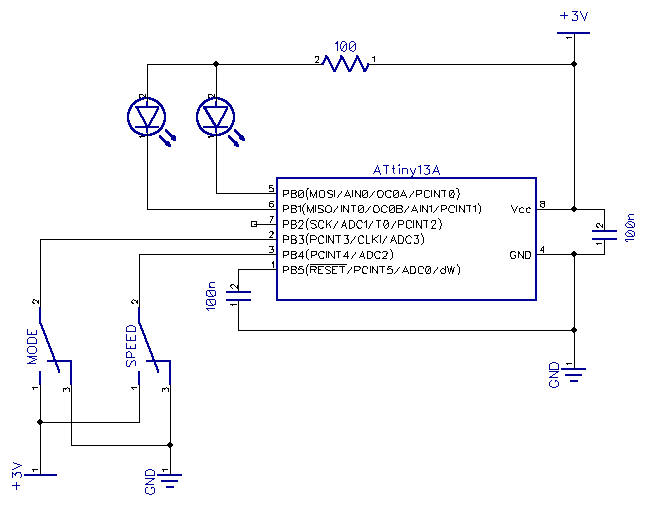
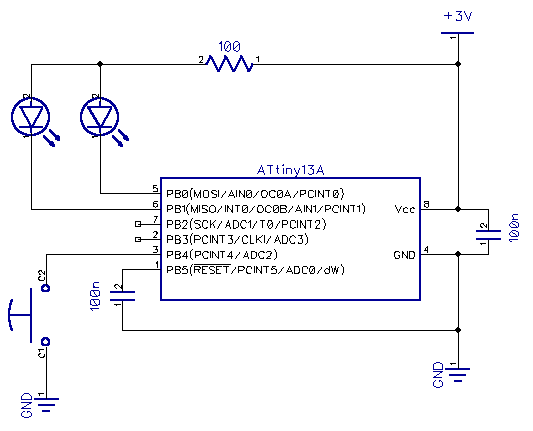
replaced static config on PB3/4 with momentary PB4 switch and config saved to eeprom

diff --git a/main.c b/main.c
@@ -27,6 +27,8 @@ static volatile uint8_t g_tcnt;
 #define CBI(port,val) asm volatile ("cbi %0,%1"::"I" (&(port)-32), "I"(val))
 #define SBI(port,val) asm volatile ("sbi %0,%1"::"I" (&(port)-32), "I"(val))
 
+#define PORTBMASK (M(PB_LED1)|M(PB_LED2))
+
 // PORTB:
 enum
 { PB_LED1 = 0, PB_LED2 = 1 };
@@ -45,6 +47,57 @@ static inline uint16_t rand()
   return g_lfsr;
 }
 
+
+static uint8_t eeget(uint16_t addr)
+{
+  EEARL = addr;
+  SBI(EECR, EERE);
+  return EEDR;
+}
+
+static void eeput(uint16_t addr, uint8_t data)
+{
+  uint8_t savesreg = SREG;
+
+  asm volatile ("cli");
+
+  EECR = 0;
+  EEARL = addr;
+  EEDR = data;
+
+  SBI(EECR, EEMPE);
+  SBI(EECR, EEPE);
+  while (EECR & (1 << EEPE));
+
+  SREG = savesreg;
+}
+
+enum
+{ CFG_MODE = 0x80, CFG_DMAX = 2 };
+static uint8_t g_cfg;
+static void cfg(uint8_t update)
+{
+  enum
+  { EE_CFG = 2 };
+  g_cfg = eeget(EE_CFG);
+  if (g_cfg == 0xff)
+    g_cfg = 0;
+
+  if ((g_cfg & 3) > CFG_DMAX)
+    g_cfg &= ~3;
+
+  if (update)
+  {
+    if ((++g_cfg & 3) > CFG_DMAX)
+    {
+      g_cfg ^= CFG_MODE;
+      g_cfg &= ~3;
+    }
+
+    eeput(EE_CFG, g_cfg);
+  }
+}
+
 static void candle(void)
 {
   // OCA&OCB PWM enabled; fast PWM mode 3
@@ -59,6 +112,57 @@ static void candle(void)
   {
     OCR0B = v;
   }
+
+  void sleep(uint8_t cnt)
+  {
+    g_tcnt = cnt;
+    while (g_tcnt)
+      asm volatile ("sleep");
+  }
+  void showcfg(void)
+  {
+    uint8_t cnt;
+
+    DDRB = 0;
+    out1(0xf0);
+    out2(0xf0);
+
+    for (cnt = 0; cnt < 4; cnt++)
+      sleep(255);
+
+    cnt = 2;
+    if (g_cfg & CFG_MODE)
+      cnt = 4;
+
+    while (cnt)
+    {
+      cnt--;
+
+      sleep(255);
+      sleep(255);
+
+      switch (g_cfg & 3)
+      {
+      case 0:
+	DDRB = M(PB_LED1);
+	break;
+      case 1:
+	DDRB = M(PB_LED2);
+	break;
+      case 2:
+	DDRB = M(PB_LED1) | M(PB_LED2);
+	break;
+      }
+
+      sleep(20);
+      DDRB = 0;
+    }
+
+    DDRB = PORTBMASK;
+  }
+
+  cfg(FALSE);
+  //showcfg();
 
   out1(0);
   out2(0);
@@ -85,7 +189,7 @@ static void candle(void)
     pow += powad / 4;
     pow -= (pow - POWMID) / 8;
 
-    if (PINB & M(PINB3))
+    if (g_cfg & CFG_MODE)
     {
       // PB3=1 -> mode 1
 
@@ -124,16 +228,29 @@ static void candle(void)
 
     pow2 = ((uint16_t) pow * (uint16_t) pow) >> 8;
 
+    if (!(PINB & M(PINB4)))
+    {
+      cfg(TRUE);
+      showcfg();
+      while (!(PINB & M(PINB4)));
+    }
+
     // wait for sync
     while (g_tcnt)
       asm volatile ("sleep");
     // set delay
-    if (PINB & M(PINB4))
-      // PB4=1 -> slow
-      g_tcnt = 20;
-    else
-      // PB4=0 -> fast
+    switch (g_cfg & 3)
+    {
+    case 0:
       g_tcnt = 16;
+      break;
+    case 1:
+      g_tcnt = 18;
+      break;
+    default:
+      g_tcnt = 20;
+      break;
+    }
 
     out1(((uint16_t) pos * pow2) >> 8);
     out2(((uint16_t) (0xff - pos) * pow2) >> 8);
@@ -145,9 +262,8 @@ int main(void) __attribute__ ((noreturn));
 int main(void)
 {
   // init:
-#define PORTBMASK (M(PB_LED1)|M(PB_LED2))
   DDRB = PORTBMASK;
-  PORTB = ((uint8_t) ~ PORTBMASK) & ~(M(PINB3) | M(PINB4));
+  PORTB = ((uint8_t) ~ PORTBMASK);
 
   // system clock prescaler:
   CLKPR = M(CLKPCE);
